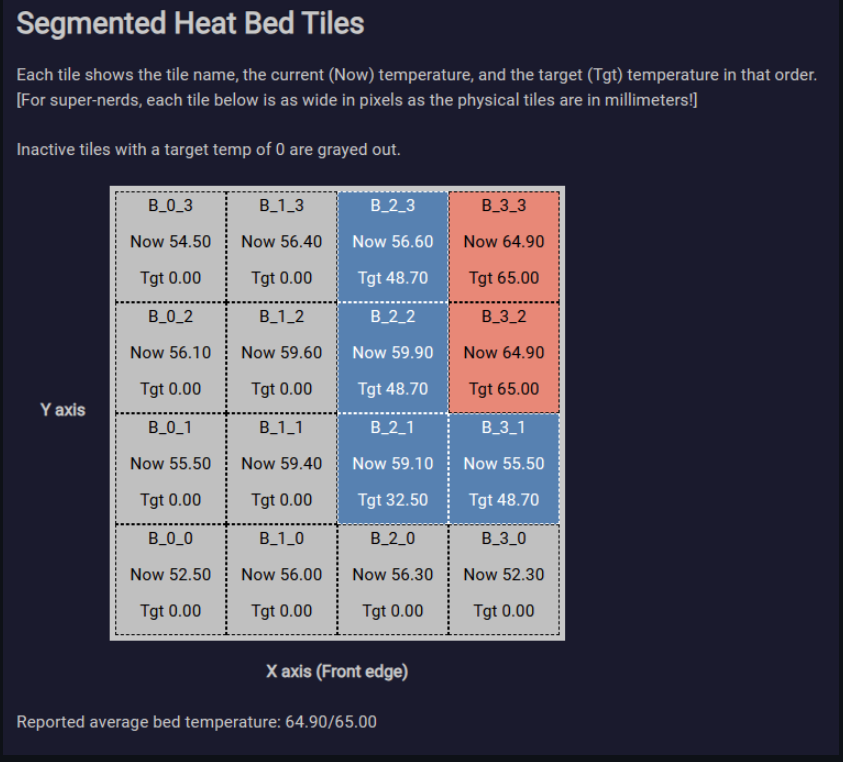
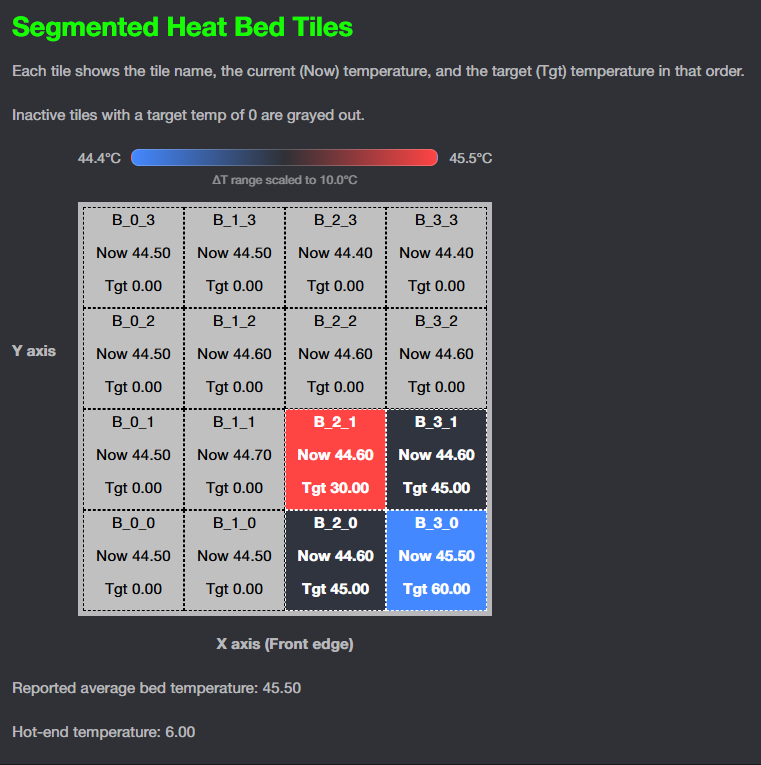
Updated description and image to match version 2.0

diff --git a/_plugins/segmentedbed.md b/_plugins/segmentedbed.md
@@ -94,6 +94,15 @@ attributes:
 
 ---
 
-A plugin to display individual segmented bed temps in real-time for Prusa XL printers.  It also plays nicely with UICustomizer and dark themes.
+A plugin to display individual segmented bed temps in real-time for Prusa XL printers.
 
-No configuration settings at the moment. Hope to add color coding options and allow selection of number of tiles to allow use of other future printers.
+As of version 2.0.0, the colors are now configurable via a settings page, and the tiles now show a variable-color heatmap increasing in intensity the hotter 
+or colder a tile is versus the target temperature. Font colors are dynamically set based on tile color to increase readability. It also plays nicely with 
+UICustomizer and dark themes.
+
+**Note that as of 2.0.0, the color scheme has changed based on user feedback.** Instead of showing red for heating and blue for cooling, the gradient heatmap now
+shows blue=cold and red=hot. This way, the heatmap tracks more closely with a normal thermometer, and not with the cooling behavior. The maximum variation 
+is 10 degrees C. Any tile farther from the target than that will show maximum hot or cold color.
+
+The colors used for hot and cold can be configured in the settings page. This page also shows a live preview of the Hot/Neutral/Cold colors to let you see how 
+they will interact with your theme in real-time.
